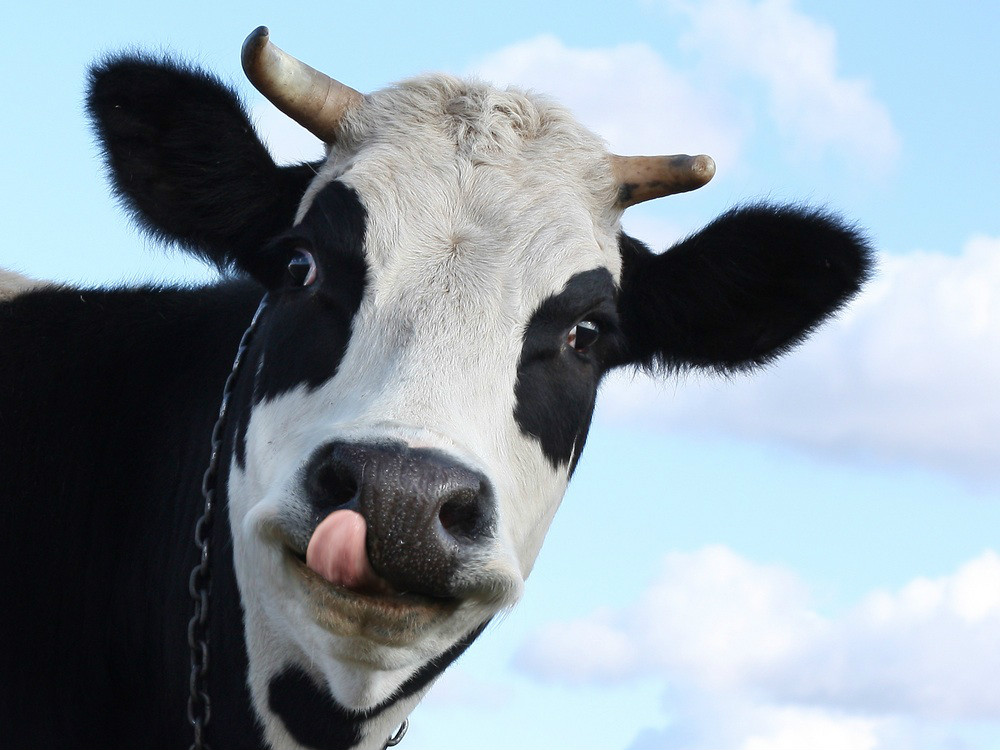
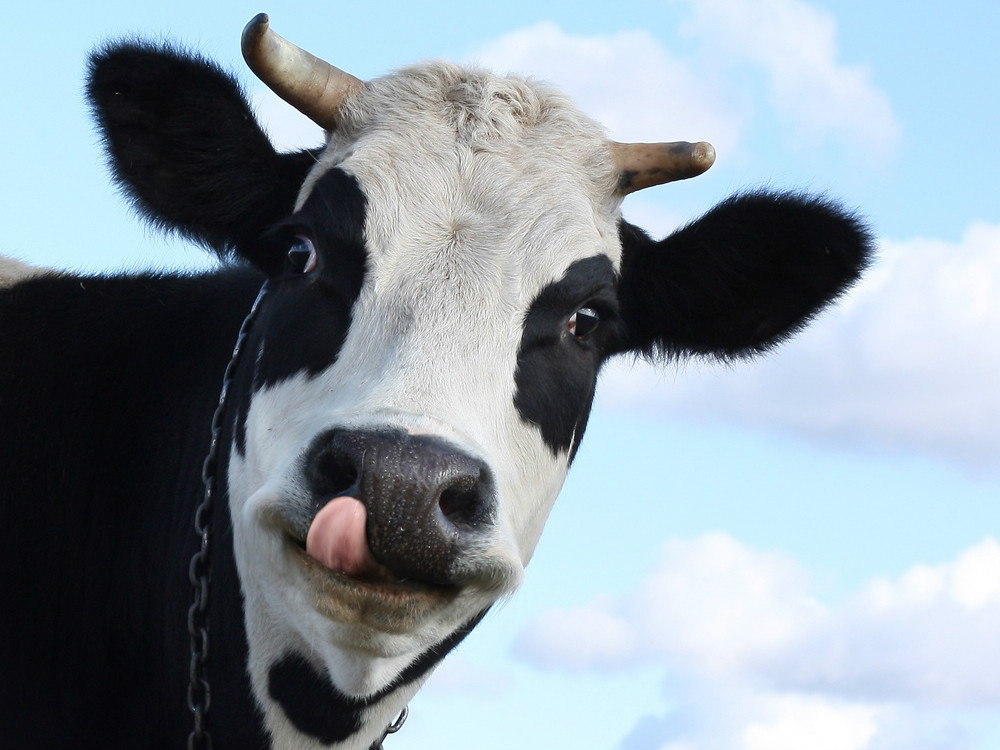
Updated carousel

diff --git a/perette.html b/perette.html
@@ -225,8 +225,7 @@
                     <h4>Nous contacter</h4>
                     <p>Vous pouvez nous joindre au +33 9 72 52 63 93 !</p>
                     <div style="display:block;" >
-                        <i class="fa fa-facebook-square" style="display:inline-block"></i>
-                        <p style="display:inline-block">Retrouvez-nous sur Facebook</p>
+                        <i class="fa fa-facebook-square" style="display:inline-block"></i><p style="display:inline-block">Retrouvez-nous sur Facebook</p>
                     </div>
                 </div>
                 <div class="col-xs-12 col-sm-4 col-md-4 col-lg-4">

diff --git a/perette.css b/perette.css
@@ -134,4 +134,19 @@ footer {
 	}
 	.navbar-collapse>.navbar-nav>.navbar-btn {
 		display: block !important;
-	}}
+	}
+}
+.carousel-inner>.item>img{
+	width: 100%;
+	height: auto;
+}
+.carousel-inner{
+	position: relative;
+}
+.carousel-inner:before{
+	content: "";
+	display: block;
+}
+
+
+
